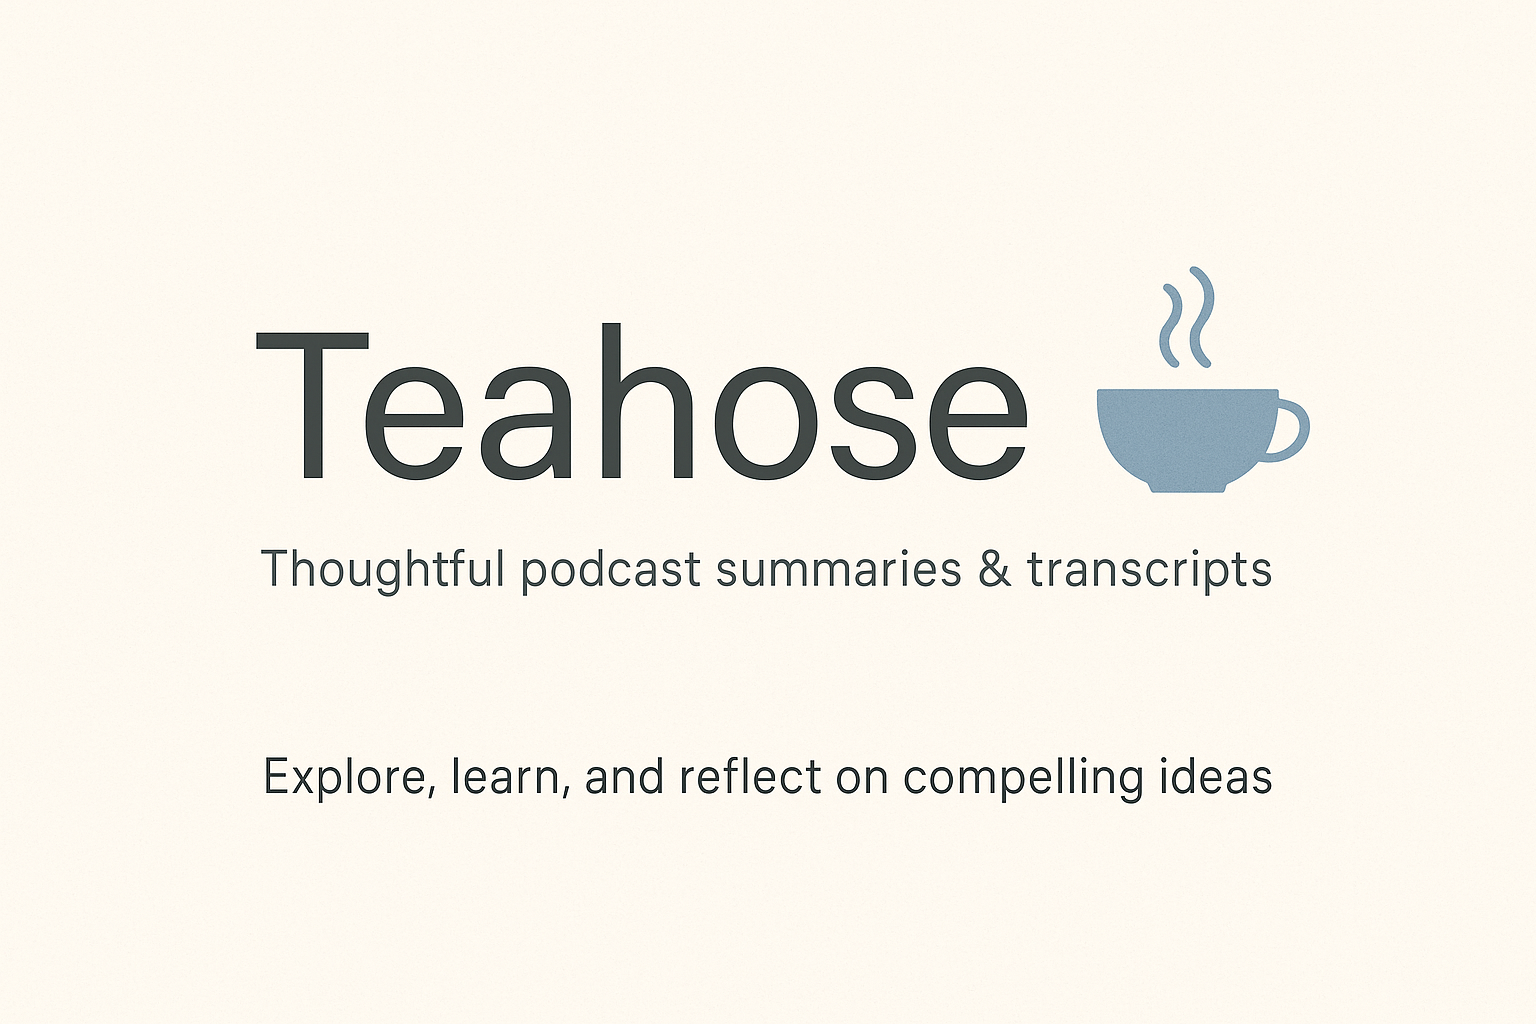
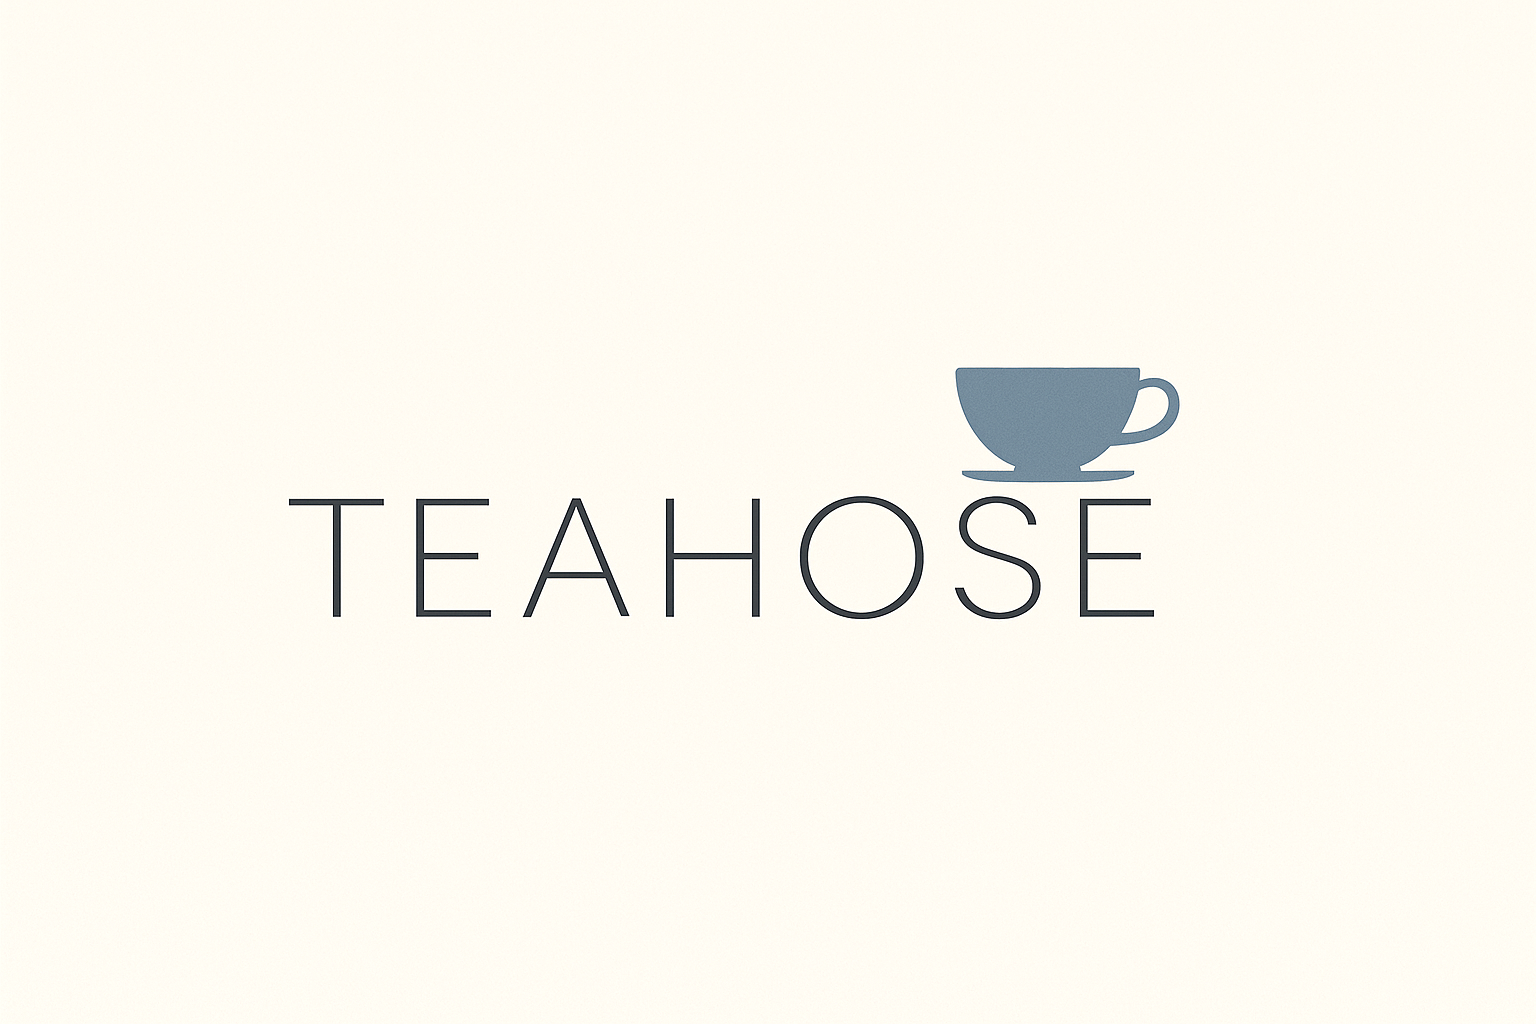
Update OG image to simplified brand lockup
- Remove duplicate tagline text from image
- Keep only "TEAHOSE" wordmark + teacup icon
- Avoids text duplication in social media previews
- Meta tags provide description text separately

🤖 Generated with [Claude Code](https://claude.com/claude-code)

Changed region(s): [[0.1562, 0.2812, 0.875, 0.625], [0.1562, 0.75, 0.8438, 0.7812]]

diff --git a/generate_og_image.py b/generate_og_image.py
@@ -19,30 +19,30 @@ def generate_og_image():
 
     # Design prompt matching the site's aesthetic
     prompt = """
-    Create a minimalist, elegant social media preview image (landscape orientation) for a podcast summary website called "Teahose".
+    Create a minimalist, elegant social media preview image (landscape orientation) for a podcast website called "Teahose".
 
     Style requirements:
     - Background: elegant cream color (#f8f7f5)
-    - Text color: charcoal (#2c2c2c)
     - Accent color: muted dusty blue (#5b7f9e)
-    - Typography: clean, modern sans-serif, light weight
-    - Overall aesthetic: sophisticated, minimalist, content-focused
+    - Typography: clean, modern sans-serif, very light weight
+    - Overall aesthetic: sophisticated, minimalist, visual-focused
 
     Layout (horizontal/landscape):
-    - Center-aligned composition optimized for landscape format
-    - Large "Teahose" title in charcoal at center
-    - Below it: "Thoughtful podcast summaries & transcripts" in smaller, lighter text
-    - Include a subtle visual element: perhaps a minimalist teacup icon or abstract podcast microphone/wave pattern in the muted blue accent color
-    - Bottom area: "Explore, learn, and reflect on compelling ideas" in very light charcoal
+    - Center the word "Teahose" (spelled T-E-A-H-O-S-E, not Teahouse) in large, elegant charcoal (#2c2c2c) text
+    - Add a simple, elegant teacup icon next to or integrated with the wordmark in the muted dusty blue color
+    - NO additional tagline text or descriptions (text will be added separately by the platform)
+    - Generous white space around the elements
+    - Minimalist composition - just the brand name and icon
+    - IMPORTANT: The brand name is "Teahose" not "Teahouse"
 
     The design should feel:
-    - Intellectual and curated
-    - Clean and uncluttered
+    - Like a high-end logo lockup / brand identity
+    - Clean and uncluttered with lots of breathing room
     - Professional yet approachable
-    - Like a high-end content platform
-    - Optimized for social media sharing (Facebook, Twitter, LinkedIn)
+    - Visually strong but simple
+    - More icon/logo-focused, less text-heavy
 
-    Landscape orientation for optimal social media display.
+    Think of it as a brand card, not a text card. Simple and elegant.
     """
 
     print("Generating Open Graph image for teahose.com...")
